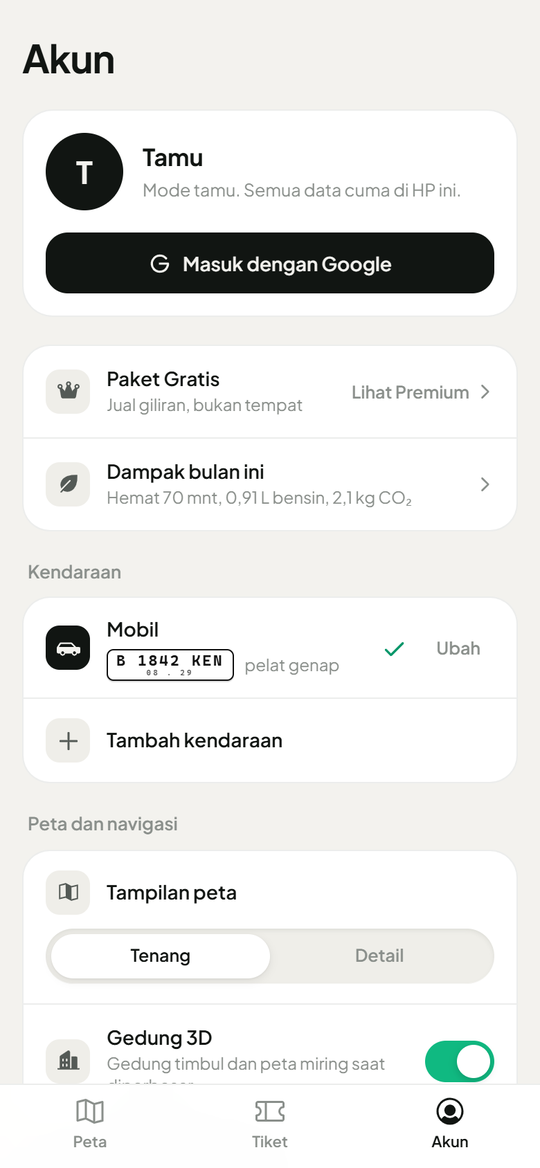
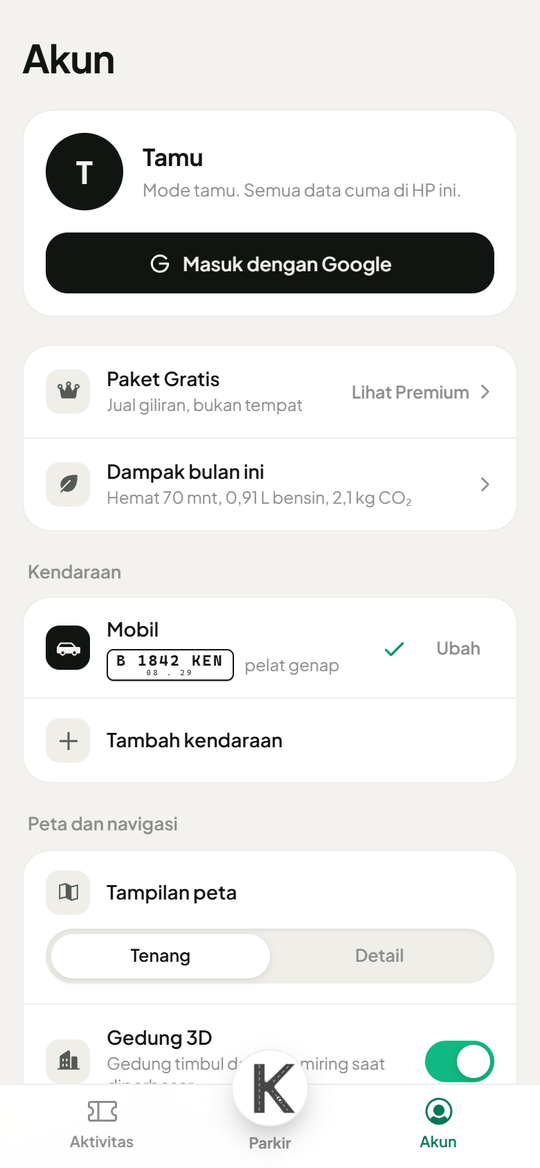
docs: three tabs, map modes and visible cancel

Changed region(s): [[0.4444, 0.8938, 0.563, 0.9863], [0.1185, 0.9247, 0.237, 0.9863], [0.7704, 0.9247, 0.8593, 0.9863]]

diff --git a/README.md b/README.md
@@ -7,14 +7,14 @@
 <p align="center"><b>Cek parkir semudah cek cuaca.</b><br/>
 Seberapa penuh, antri gerbang berapa menit, dan ke mana kalau penuh. Sebelum kamu berangkat.</p>
 
-<p align="center"><a href="https://kenneth-9339d.web.app"><b>kenneth-9339d.web.app</b></a><br/>
+<p align="center"><a href="https://kenneth-park.web.app"><b>kenneth-park.web.app</b></a><br/>
 Buka di HP untuk app-nya. Di laptop, app yang sama tampil di bingkai HP dengan QR di pojok.</p>
 
 <p align="center">
-  <img src="docs/screens/explore.png" width="200" alt="Tab Peta" />
-  <img src="docs/screens/venue-led.png" width="200" alt="Detail lokasi dengan papan sisa slot" />
-  <img src="docs/screens/valet.png" width="200" alt="Tiket valet, mobil siap di lobi" />
-  <img src="docs/screens/account.png" width="200" alt="Tab Akun" />
+  <img src="docs/screens/explore.png" width="200" alt="Tab Parkir: peta dan daftar tempat" />
+  <img src="docs/screens/modes.png" width="200" alt="Dropdown mode: Parkir, Jalur prioritas, Valet, Charger EV" />
+  <img src="docs/screens/valet-card.png" width="200" alt="Mode Valet di Taman Anggrek" />
+  <img src="docs/screens/activity.png" width="200" alt="Tab Aktivitas: sekarang, nanti, riwayat" />
 </p>
 
 > **Status: prototipe.** Dibuat untuk mata kuliah ENPR6312 Venture Creation (BINUS, semester ganjil 2026/2027).
@@ -39,14 +39,18 @@ berhenti. App operator parkir baru kepakai setelah kamu masuk. Padahal keputusan
 
 ## Cara pakainya
 
-App-nya cuma tiga tab, selalu di tempat yang sama di bawah layar. Nggak ada dashboard, dan app nggak pernah pindah
-tab sendiri.
+App-nya cuma tiga tab, selalu di tempat yang sama di bawah layar. Logo K di tengah adalah rumahnya, dibuat lebih
+menonjol seperti tombol QRIS di app bank. Nggak ada dashboard, dan app nggak pernah pindah tab sendiri.
 
 | Tab | Isi |
 |---|---|
-| **Peta** | Peta plus daftar tempat, urut dari yang paling cepat dapet parkir. Filter Semua, Favorit, Kampus, Mall. Buka satu tempat untuk papan "SISA SLOT" dan empat tombol: Rute, Pesan, Parkir, Ingetin |
-| **Tiket** | Yang sedang berjalan: lokasi parkirmu, tiket jalur prioritas, valet, charger. Lalu pengingat dan riwayat |
-| **Akun** | Masuk dengan Google atau tetap jadi tamu, kendaraan (mobil dan motor), paket, dampak bulan ini, opsi peta, notifikasi |
+| **Aktivitas** (kiri) | Tiga bagian. Sekarang: lokasi parkirmu, valet yang lagi jalan, jalur prioritas yang sedang berlaku. Nanti: booking yang belum mulai dan pengingat. Riwayat: yang sudah selesai, dibatalkan, atau hangus, masing-masing dengan tombol "Lagi" untuk pesan ulang sekali tap |
+| **Parkir** (logo K, tengah) | Peta besar, search, dan dropdown "Mau ngapain?" di kanan search: Parkir, Jalur prioritas, Valet, Charger EV, plus pilihan kendaraan (mobil atau motor). Layoutnya selalu sama, yang berubah cuma angka di pin dan satu tombol utama di kartu tempat. Tap K lagi untuk balik ke tampilan awal |
+| **Akun** (kanan) | Masuk dengan Google atau tetap jadi tamu, kendaraan, paket, dampak bulan ini, opsi peta, notifikasi |
+
+Tiap booking yang masih bisa dibatalkan punya tombol "Batalkan" yang kelihatan, di kartu Aktivitas, di tiketnya, dan
+langsung setelah memesan. Batalnya dua langkah dengan aturannya ditulis. Yang dibatalkan tetap tercatat di Riwayat.
+Kalau ada yang lagi jalan (misalnya valet sedang mengambil mobil), satu baris muncul di atas kartu tab Parkir.
 
 Pertama kali dibuka ada onboarding empat langkah (bisa dilewati): sambutan, yang bisa dibantu, tempat favorit,
 kendaraan. Setelah itu langsung ke peta.
@@ -81,16 +85,16 @@ Motor dan mobil punya slot, tingkat keterisian, dan tarif sendiri: ganti kendara
 
 | # | Fitur | Di mana |
 |---|---|---|
-| 01 | Kondisi parkir real-time | Pin dan daftar di Peta, papan "SISA SLOT" di detail lokasi |
+| 01 | Kondisi parkir real-time | Pin dan daftar di tab Parkir, papan "SISA SLOT" di detail lokasi |
 | 02 | Rekomendasi alternatif | Detail lokasi yang penuh, bagian "Masih lega di dekat sini" |
-| 03 | Ingetin saat lega | Tombol "Ingetin" di detail, baris pengingat di daftar |
+| 03 | Ingetin saat lega | Tombol ⋯ di kartu tempat, baris pengingat di daftar, pengingat aktif di Aktivitas |
 | 04 | Estimasi biaya parkir | Detail lokasi, baris "Biaya parkir" |
 | 05 | Arahkan ke gerbang yang bener | Chip antrian tiap gerbang di peta, tombol Rute ke gerbang paling lancar (di KENNETH, Google Maps, atau Waze) |
-| 06 | Inget lokasi mobil | Tombol "Parkir", simpan lantai, zona, pilar, lobi, foto. Muncul di Tiket dan sebagai chip di peta |
+| 06 | Inget lokasi mobil | Tombol ⋯ lalu "Simpan lokasi parkir", atau "Udah sampai" di akhir rute. Muncul di Aktivitas dan di baris atas tab Parkir |
 | 07 | Rute mobil ke tenant | Detail lokasi, "Dari parkir ke tujuan", plus denah basement 3D di "Cari kendaraan" |
 | 08 | Slot difabel dan ibu hamil | Detail lokasi, baris "Slot khusus" |
-| 09 | Booking jalur prioritas | Tombol "Pesan", tab Jalur prioritas. Tiket QR di tab Tiket |
-| 10 | Booking charger EV | Tombol "Pesan", tab Charger EV |
+| 09 | Booking jalur prioritas | Mode Jalur prioritas, atau saran "Mau masuk tanpa antre?" di kartu tempat yang penuh. Tiket QR di Aktivitas |
+| 10 | Booking charger EV | Mode Charger EV, pin menunjukkan charger yang kosong |
 | 11 | Pola kebiasaan pribadi | Akun, Dampak bulan ini, "Pola kebiasaanmu" (Premium) |
 
 Tambahan di luar 11 fitur:
@@ -112,7 +116,7 @@ Tambahan di luar 11 fitur:
 - **Valet milik gedung, bukan armada kami.** KENNETH cuma pintu digitalnya. Nol biometrik, bayar di meja valet.
 - **Kampus tidak menjual apa pun.** Di kampus app cuma menunjukkan seberapa penuh dan ke mana kalau penuh.
 - **Jujur soal sumber data.** Tiap lokasi berlabel "Data palang" atau "Estimasi".
-- **Data pribadi tinggal di HP.** Login Google hanya mengirim nama, email, dan foto profil. Riwayat, tiket, dan lokasi
+- **Data pribadi tinggal di HP.** Login Google hanya mengirim nama, email, dan foto profil. Riwayat, booking, dan lokasi
   parkir tetap di perangkat. Yang nantinya dijual ke pengelola hanya agregat per jam.
 
 ## Jalankan sendiri
@@ -173,7 +177,7 @@ src/
   engine/      mesin simulasi: okupansi, antrian gerbang, harga, valet, ganjil-genap, dampak, ranking, angka mitra
   store/       state app (disimpan di localStorage), state UI, jam simulasi, jawaban booth
   i18n/        teks Indonesia dan Inggris
-  components/  UI per layar: explore (Peta), tickets, account, sheets (termasuk sheets/book), onboarding, map, park (3D)
+  components/  UI per layar: explore (tab Parkir), activity, account, sheets (termasuk sheets/book), onboarding, map, park (3D)
   lib/         login Google, navigasi ke app lain, notifikasi, waktu WIB
   pages/       /mitra dan /booth
 docs/          dokumen produk, model simulasi, screenshot, logo (docs/brand)

diff --git a/docs/PRODUCT.md b/docs/PRODUCT.md
@@ -24,6 +24,22 @@ Tiga hal yang menentukan produk ini hidup atau mati, urut dari yang paling penti
 2. Terbaca sekilas. Angka besar, satu warna status, tanpa grafik yang harus dipelajari dulu.
 3. Kepadatan cakupan. Rekomendasi alternatif cuma berguna kalau mall sebelahnya juga tercakup.
 
+## Navigasi (keputusan tim, 22 Sep 2026)
+
+Tiga tab: Aktivitas di kiri, logo K (Parkir) di tengah, Akun di kanan. Masukan tim atas versi 0.2: pemisahan
+tab kurang jelas, tab yang cuma berisi riwayat terasa boros, dan fitur sebaiknya diakses dari dalam fitur lain.
+
+- **Satu layar utama untuk semua hal.** Parkir biasa, jalur prioritas, valet, dan charger EV memakai layar yang
+  sama: peta besar, search, dan dropdown "Mau ngapain?". Yang berubah hanya angka di pin dan satu tombol utama.
+  Pengguna tidak perlu belajar layar baru untuk tiap layanan.
+- **Satu tab satu tugas.** Parkir untuk memutuskan, Aktivitas untuk yang sudah dipesan, Akun untuk diri sendiri.
+- **Riwayat bukan arsip.** Tiap baris punya tombol "Lagi", karena kebanyakan orang parkir di tempat yang sama
+  berulang kali.
+- **Batal selalu kelihatan.** Booking yang masih bisa dibatalkan punya tombol "Batalkan" di kartunya, dua langkah,
+  dengan aturannya tertulis. Yang dibatalkan tetap tercatat di Riwayat supaya tidak ada uang atau pesanan yang
+  terasa hilang.
+- **App tidak pernah pindah tab sendiri.** Yang lagi berjalan muncul sebagai satu baris di atas kartu tab Parkir.
+
 ## Yang dijual, dan yang sengaja tidak
 
 **Tidak menjual petak parkir.** Kalau yang dijual petak selama sekian jam, kami tidak punya wewenang

diff --git a/CONTRIBUTING.md b/CONTRIBUTING.md
@@ -103,7 +103,11 @@ kejauhan dari gedungnya, dan field yang wajib ada.
 - Jam app bisa diganti lewat chip jam di kiri atas peta. Skenario default Sabtu 14.07, Selasa 10.00 untuk kampus penuh.
 - Akun, Privasi dan data, "Hapus data" mengembalikan app ke kondisi awal, termasuk onboarding.
 - Tombol "Masuk dengan Google" baru muncul kalau `.env.local` diisi (lihat `.env.example`).
-- Nggak ada yang boleh pindah tab otomatis. Setelah aksi berhasil, cukup toast dan titik di tab Tiket (`markTickets`).
+- Nggak ada yang boleh pindah tab otomatis. Setelah aksi berhasil, cukup toast dan titik di tab Aktivitas (`markActivity`).
+  Satu-satunya perpindahan tab adalah yang ditekan pengguna sendiri, misalnya tombol "Lagi" di Riwayat.
+- Tab Parkir satu template untuk semua mode. Mode baru berarti isi pin dan tombol baru di `engine/modes.ts` dan
+  `explore/PlaceCard.tsx`, bukan layar baru.
+- Booking yang bisa dibatalkan selalu pakai `CancelConfirm`, dan yang dibatalkan tetap tercatat (lihat `engine/activity.ts`).
 - Di mode dev, objek peta tersedia di console sebagai `window.__kmap`.
 - Rute dari OSRM kadang lambat. Setelah 6 detik app otomatis pakai rute perkiraan.
 - Data app tersimpan di `localStorage` dengan kunci `kenneth-app`.
